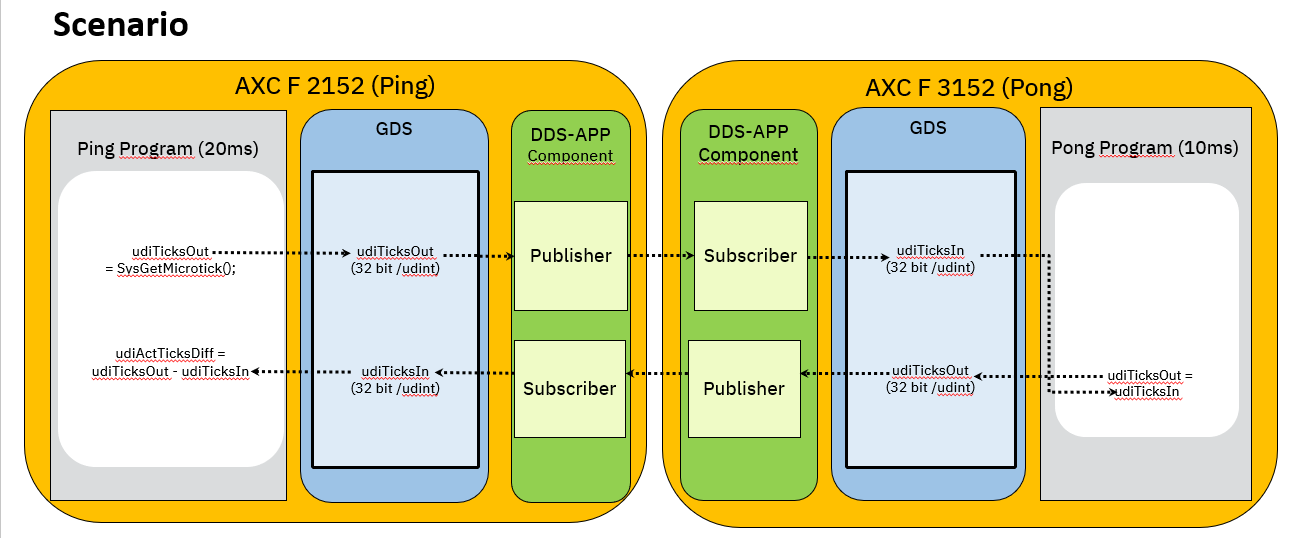
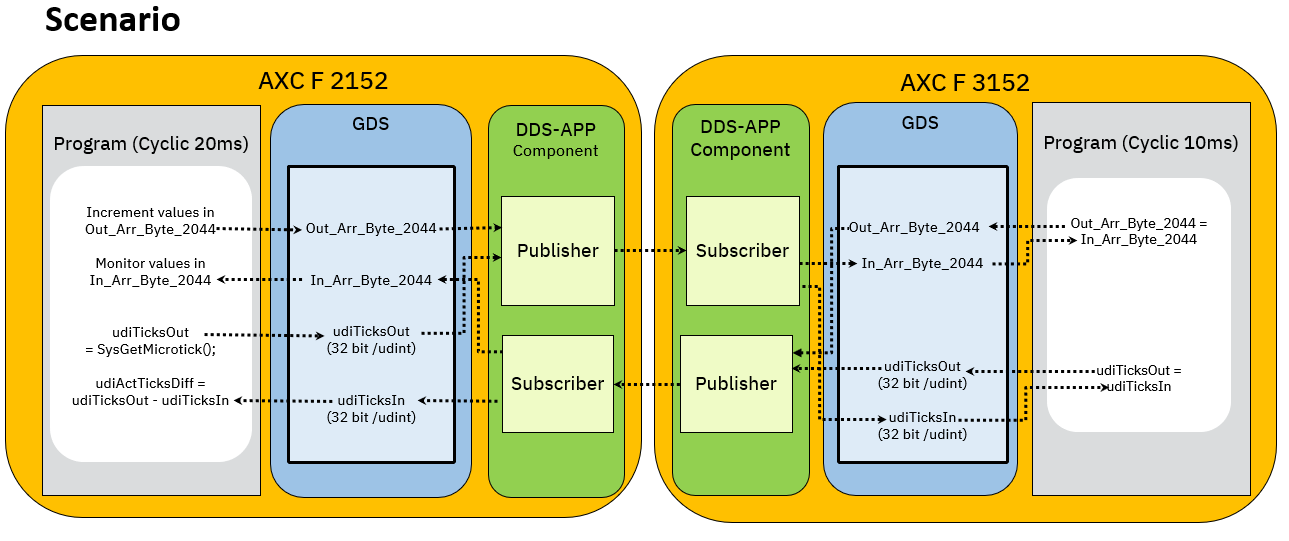
update

Changed region(s): [[0.0, 0.0, 0.993, 0.9814]]

diff --git a/DDS_App_Examples/DDS_RoundTrip/README.md b/DDS_App_Examples/DDS_RoundTrip/README.md
@@ -7,13 +7,56 @@
 
 ## Introduction
 
-The DDS_RoundTrip sample contains two application and allows you to measure the cycle time of the DDS roundtrip message on two PLCnext controllers and visualize it via eHMI. It can be divided into the following three parts:
+The DDS_RoundTrip example measures the roundtrip duration when sending and receiving the messages on AXC F 2152 controller. The AXC F 3152 controller is used as the communication partner.
 
-1.	The first application runs on an AXC F 2152 controller and generates a timestamp/ticks_counter that is assigned to the variable "udiTicksOut" and published using a "Ping" publisher.
 
-2.	The second application, which runs on an AXC F 3152 controller, subscribes to this as a "udiTicksIn" variable using a "Ping" subscriber. The application assigns the variable "udiTicksIn" to the variable "udiTicksOut" and publishes it using a "Pong" publisher.
+## Design
 
-3.	The first application on the AXC F 2152 controller subscribes to this variable as "udiTicksIn" using a "Pong" subscriber and calculates the difference between the current "udiTicksOut" and the received "udiTicksIn" variables/timestamps. The cycle time of the dds message is calculated based on the difference between the two timestamps.
+The DDS_RoundTrip example consists of two applications/cotrollers:
+
+AXC F 2152: Sends a message to AXC F 3152 and waits for its return.
+
+AXC F 3152: Waits for messages from AXC F 2152 and sends the same message back.
+
+
+## Scenario
+
+AXC F 2152 controller sends a message by the “ping” partition(Publisher), which the “ping” partition (Subscriber) on AXC F 3152 controller is waiting for. 
+AXC F 3152 controller sends the same message back by the “pong” partition (Publisher), which the “pong” partition (Subscriber) the AXC F 2152 is waiting for. This sequence is repeated cyclically.
+
+
+## Result
+
+The measurement application running on the AXC F 2152 controller displays the value of the cyclic round trip time in [ms] via eHMI. 
+The application also calculates min/max statistics on cyclic roundtrip measurements.
+
+
+## Dependencies and Configuration
+
+The measured round trip time depends on:
+
+ESM cyclic task configuration and program duration time on AXC F 2152 controller (message sending): Configurable in PLCnEng Project (Tasks -> cycleTime).
+
+ESM cyclic task configuration and program duration time on AXC F 3152 controller (message mirroring, must be twice as fast as the message sender): Configurable in PLCnEng Project (Tasks -> cycleTime).
+
+ESM cyclic task configuration for DDS-App running on AXC F 2152 and AXC F 3152 controllers: Configurable in dds.esm.config file (Tasks -> cycleTime).
+
+Publisher WriteAccess cycle time: Configurable in dds.config file (Publisher -> Writer -> duration).
+
+Subscriber ReadAccess cycle time: Configurable in dds.config file (Subscriber -> Writer -> duration).
+
+Network delay time: depends on network performance.
+
+
+## Implementation
+
+contains two applications and allows you to measure the cycle time of the DDS roundtrip message and visualize it via eHMI. It can be divided into the following three parts:
+
+1.	The first application running on an AXC F 2152 controller calculates the counter value and writes it to the byte array “Out_Arr_Byte_2044”, additionally it generates a timestamp/ticks_counter which is assigned to the variable “udiTicksOut”. Then the output variables “Out_Arr_Byte_2044” and “udiTicksOut” are published using a “Ping” publisher.
+
+2.	The second application, which runs on an AXC F 3152 controller, subscribes the values from AXC F 2152 controller as a "In_Arr_Byte_2044" and "udiTicksIn" variables using a "Ping" subscriber. The application assigns the array "In_Arr_Byte_2044" to "Out_Arr_Byte_2044" and the variable "udiTicksIn" to the variable "udiTicksOut" and publishes them using a "Pong" publisher.
+
+3.	The first application on the AXC F 2152 controller subscribes the values from AXC F 3152 controller as "In_Arr_Byte_2044" and "udiTicksIn" variables using a "Pong" subscriber and calculates the difference between the current "udiTicksOut" and the received "udiTicksIn" variables/timestamps. The cycle time of the dds message is calculated based on the difference between the two timestamps.
 
 
 **The following diagram shows the software architecture:**
@@ -33,20 +76,20 @@ The DDS_RoundTrip sample contains two application and allows you to measure the 
 The following software must be installed on the PC:
 - WinSCP
 - HTML5 capable browser
-- PLCnext Engineer version 2024.0.2 LTS or later
+- PLCnext Engineer version 2024.0.3 LTS or later
 
 ### Installation preparation
 
 Please prepare your PLCnext Controls as follows:
 
 **First steps:**
-1. Reset your PLC's. For this, push the reset button during the boot process until RUN and FAIL LED light up. </br> DO NOT PRESS THE RESET BUTTON FOR MORE THAN 20 SECONDS.
-2. Set on AXC F 3152 for LAN 1 interface the IP address : `192.168.1.11` in ["Configuration" > "Network"](https://www.plcnext.help/te/WBM/Configuration_Network.htm). For this, connect AXC F 3152 controller via LAN 2 interface to your PC and enter the following URL in web browser: https://192.168.2.10/wbm
-3. Download the [PLCnextEngineer demo projects](./PLCnEngProj) from this repository. You can open it with PLCnext Engineer 2024.0.2 LTS.
-4. Write and start the demo project to the AXC F 2152 and AXC F 3152.
+1. Configure the Network Adapter on Microsoft Windows operating system for access to the PLCnext controllers in the range 192.168.1.x/24 (e.g. IP: 192.168.1.100 , Subnet: 255.255.255.0).
+2. Set on AXC F 3152 for LAN 1 interface the IP address : `192.168.1.11` as decribed/showed in ["Configuration" > "Network"](https://www.plcnext.help/te/WBM/Configuration_Network.htm). For this, connect AXC F 3152 controller via LAN 1 interface to your PC and enter the following URL in web browser: https://192.168.1.10/wbm
+3. Disconnect the AXC F 3152 LAN 1 interface from your PC and connect it to the LAN 1 interface of the AXC F 2152 controller. Then connect the second port of AXC F 2152  LAN 1 interface to your PC.
+4. Download the two [PLCnextEngineer demo projects](./PLCnEngProj) for AXC F 2152 and AXC F 3152 controllers from this repository. You can open it with PLCnext Engineer 2024.0.3 LTS.
+5. Write and start the demo project to the AXC F 2152 and AXC F 3152.
     - For AXC F 2152, please use: DDS_RoundTrip_AXCF2152.pcwex
     - For AXC F 3152, please use: DDS_RoundTrip_AXCF3152.pcwex
-5. Connect the LAN 1 interface of AXC F 3152 controller to AXC F 2152 via ethernet cable.
 
 **The following picture shows the hardware architecture:**
 
@@ -181,7 +224,7 @@ Please prepare your PLCnext Controls as follows:
     - For AXC F 2152, the eHMI-Site can be access within a web browser using the URL: https://192.168.1.10/ehmi/hmiapp.html
     - For AXC F 3152, the eHMI-Site can be access within a web browser using the URL: https://192.168.1.11/ehmi/hmiapp.html
 
-9. Press the "Reset" button and monitor the round trip time of the DDS data transmission between two PLCnext controllers:
+9. At the eHMI page press the „Reset“ button and monitor the round trip time of the DDS data transmission between two PLCnext controllers:
 
 	
 ![Alt-Text](./images/AXCF2152.png)
